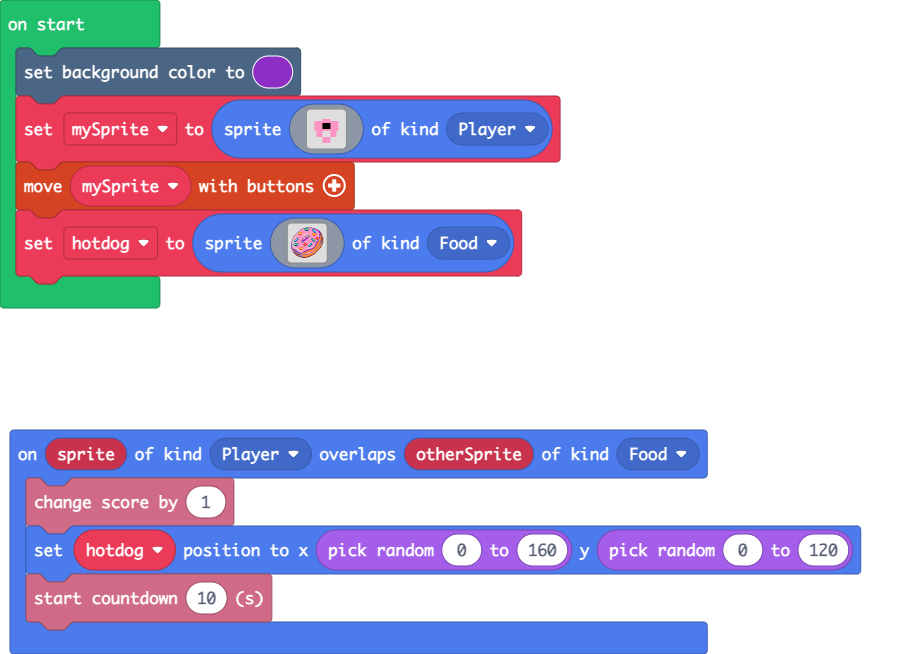
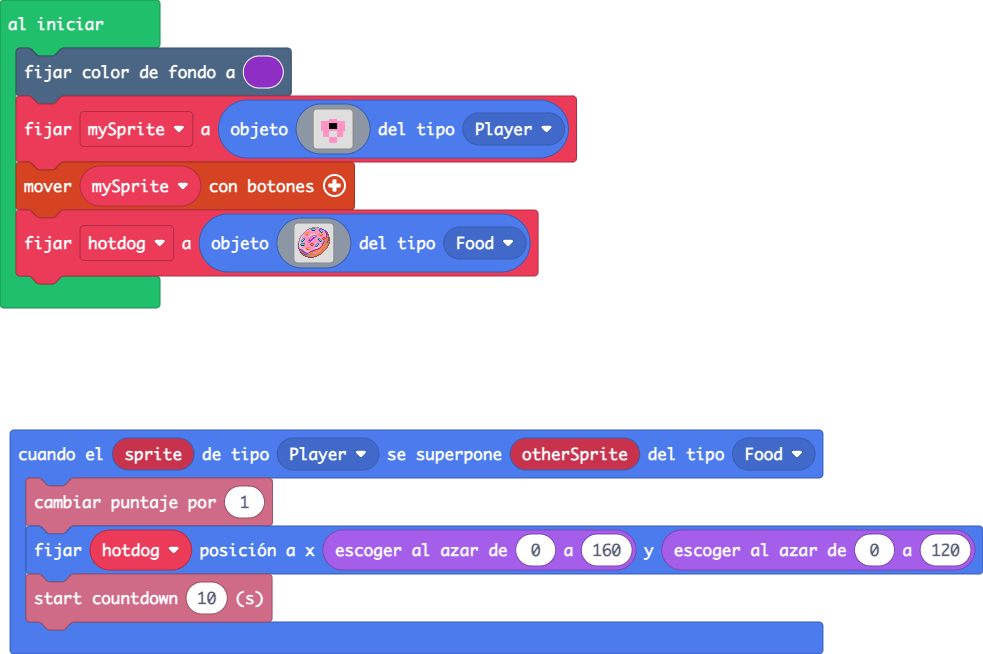
Actualizar pxt.json, main.blocks, images.g.ts

Changed region(s): [[0.0, 0.6422, 1.0, 0.9786], [0.0, 0.0, 0.6134, 0.4893], [0.7667, 0.948, 0.8587, 1.0]]

diff --git a/images.g.ts b/images.g.ts
@@ -1,4 +1,4 @@
-// Auto-generated code. Do not edit.
+// Código generado automáticamente. No editar.
 namespace myImages {
 
     helpers._registerFactory("image", function(name: string) {
@@ -118,5 +118,12 @@ ab33ddd325543333dd33aa444b44e...
         return null;
     })
 
+    helpers._registerFactory("song", function(name: string) {
+        switch(helpers.stringTrim(name)) {
+
+        }
+        return null;
+    })
+
 }
-// Auto-generated code. Do not edit.
+// Código generado automáticamente. No editar.
